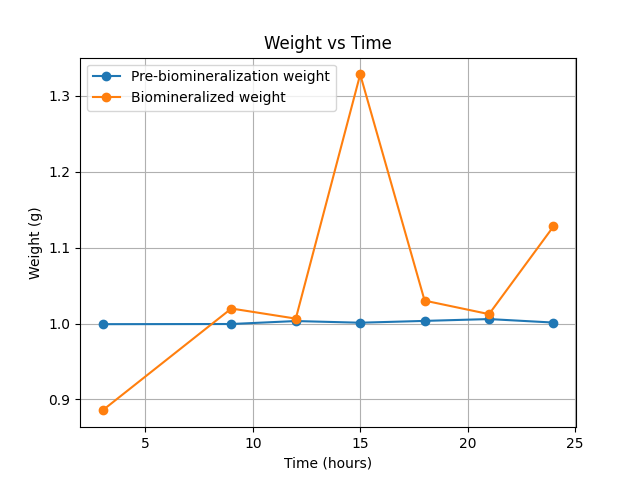
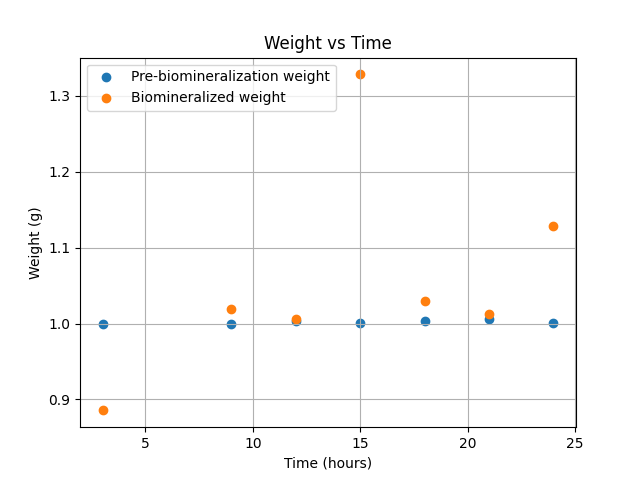
Deposition rate added

diff --git a/Deposition.py b/Deposition.py
@@ -10,8 +10,8 @@ biomineralized_weight = df['Biomineralized weight (g)'].tolist()
 time=[3,9,12,15,18,21,24] #hours as a incubation time
 
 plt.figure()
-plt.plot(time, pre_biomineralization_weight, marker='o', label='Pre-biomineralization weight')
-plt.plot(time, biomineralized_weight, marker='o', label='Biomineralized weight')
+plt.scatter(time, pre_biomineralization_weight, marker='o', label='Pre-biomineralization weight')
+plt.scatter(time, biomineralized_weight, marker='o', label='Biomineralized weight')
 plt.xlabel('Time (hours)')
 plt.ylabel('Weight (g)')
 plt.title('Weight vs Time')
@@ -92,6 +92,12 @@ CaCO3_mass= (Ca_i/Ca)*100
 
 total_mass= MgCO3_mass+CaCO3_mass
 
+print('Total mass is:')
 print(total_mass)
 
 #ask deniz for the deposition rate
+for i in range(len(time)):
+    deposition_rate=[]
+    deposition_rate.append((biomineralized_weight[i]-pre_biomineralization_weight[i])/(total_mass*time[i]))
+    print('Deposition rate for', time[i], 'hours')
+    print(deposition_rate)
